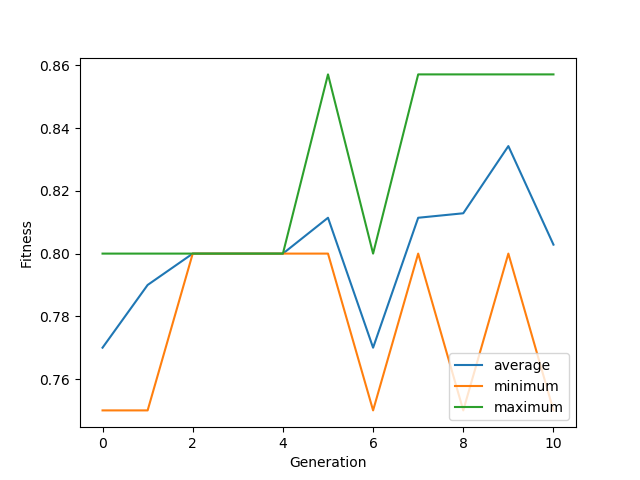
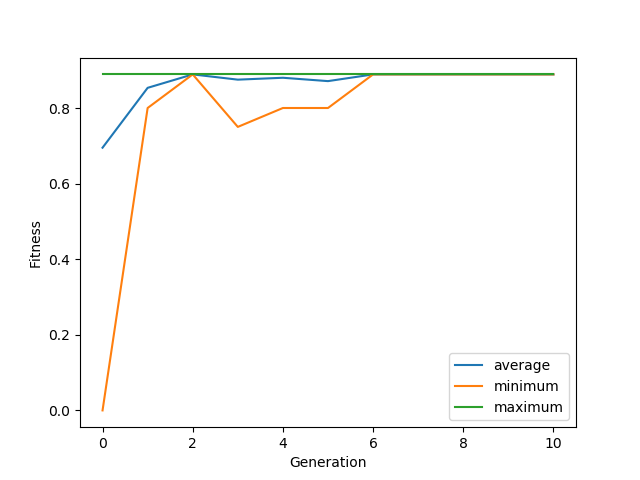
tests for normal dataset, no oversampling

diff --git a/project2/mlp.py b/project2/mlp.py
@@ -61,7 +61,7 @@ def runMLP(layersizes, features, validation):
 
 
     x_train, x_test, y_train, y_test = train_test_split(data, target, test_size=0.45, shuffle=False)
-    x_test, (x_val), y_test, y_val = train_test_split(x_test, y_test, test_size=0.25, shuffle=False)
+    x_test, (x_val), y_test, y_val = train_test_split(x_test, y_test, test_size=0.45, shuffle=False)
 
 
     # #oversampling
